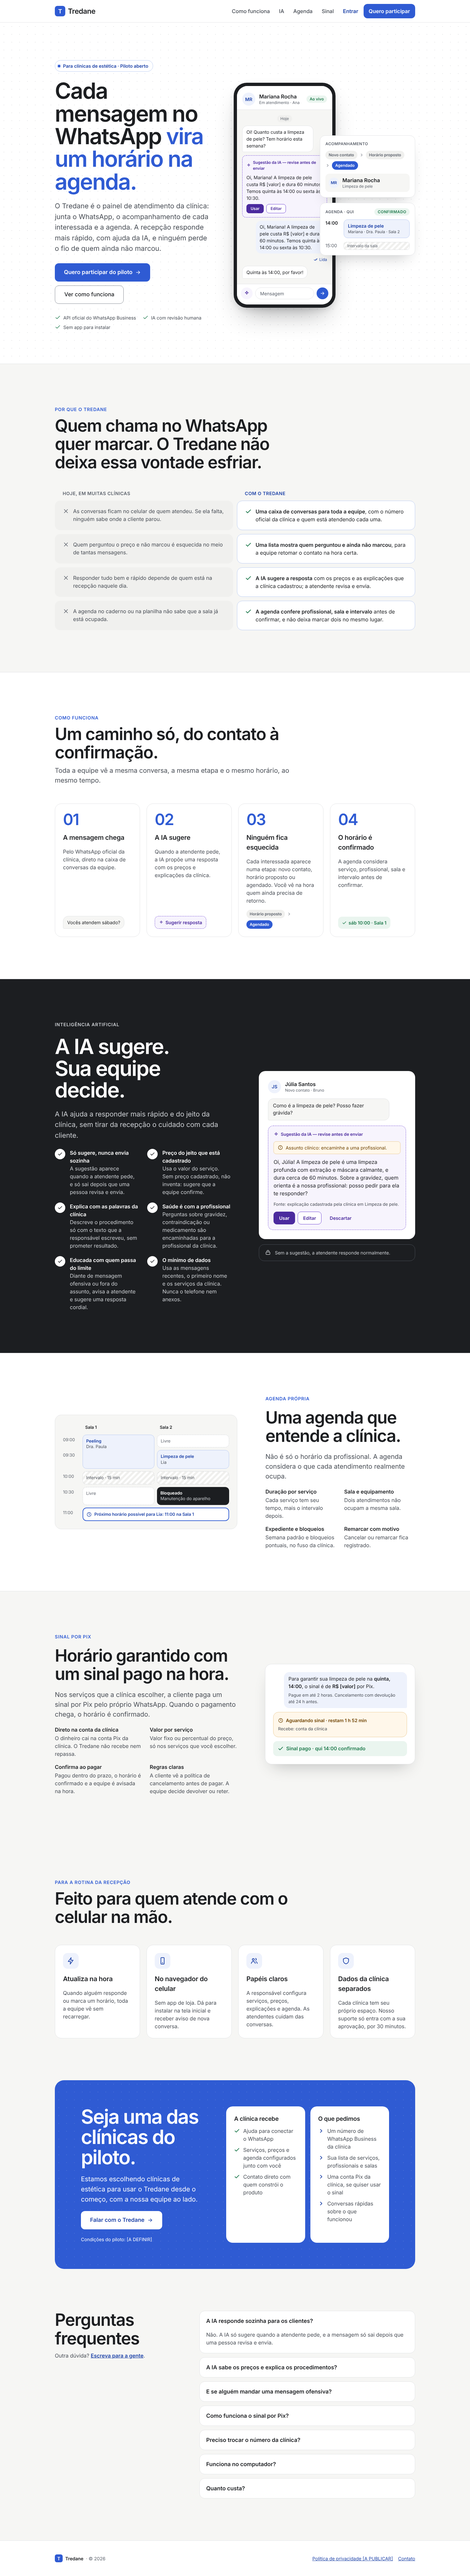
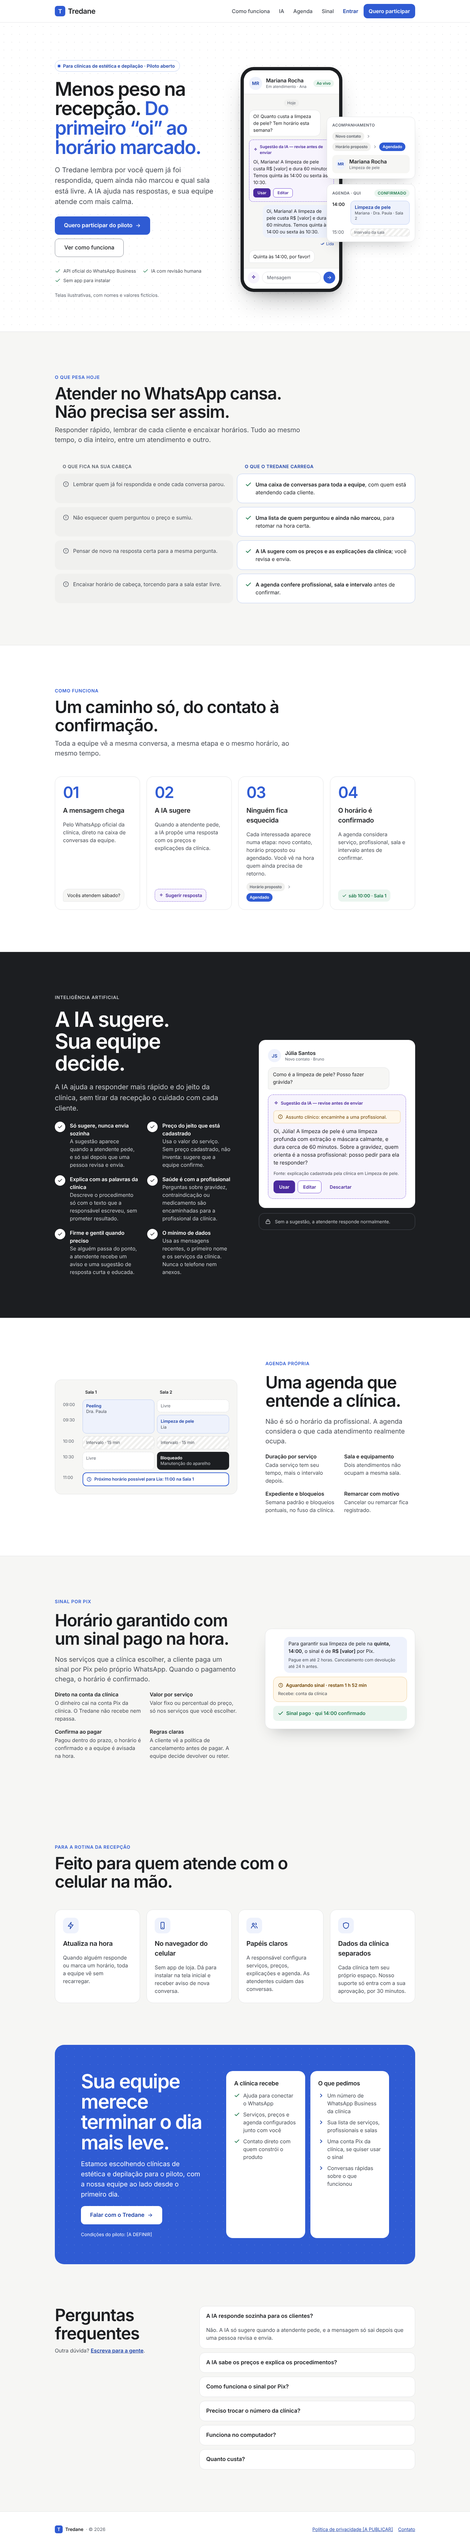
Landing v7: recepção mais leve, sem estágio de desenvolvimento
- Abertura: Menos peso na recepção. Do primeiro oi ao horário marcado.
- Seção O que pesa hoje com quatro pares; público com depilação
- Mensagens ofensivas só como garantia leve da IA; nota de telas
  ilustrativas com dados fictícios
- axe 0 violações; Lighthouse 100/100/100 e 99 em desempenho

Claude-Session: https://claude.ai/code/session_018LoKpmkZfcb6hBei4QRSz9

diff --git a/docs/design/landing/Main.dc.html b/docs/design/landing/Main.dc.html
@@ -2,7 +2,7 @@
 <html lang="pt-BR">
 <head>
 <meta charset="utf-8">
-<title>Tredane — atendimento para clínicas de estética (v4)</title>
+<title>Tredane — atendimento para clínicas de estética (v7)</title>
 <script src="./support.js"></script>
 </head>
 <body>
@@ -35,9 +35,9 @@ body{margin:0}
 <div style="max-width: 1200px; margin: 0 auto; padding: clamp(48px, 8cqi, 120px) clamp(16px, 4cqi, 48px) clamp(48px, 7cqi, 104px); display: flex; flex-wrap: wrap; align-items: center; gap: clamp(40px, 5cqi, 72px)">
 
 <div style="flex: 1 1 440px; min-width: 0; display: flex; flex-direction: column; gap: 24px">
-<span style="align-self: flex-start; display: flex; align-items: center; gap: 8px; padding: 6px 14px 6px 8px; border-radius: 999px; background: #FFFFFF; border: 1px solid #B9CBF2; color: #1E43A8; font-size: 14px; font-weight: 600"><span aria-hidden="true" style="width: 8px; height: 8px; border-radius: 999px; background: #2F5BD3; box-shadow: 0 0 0 4px #EEF2FC"></span>Para clínicas de estética · Piloto aberto</span>
-<h1 id="hero-t" style="margin: 0; font-size: clamp(40px, 6.2cqi, 80px); line-height: 1.02; letter-spacing: -0.035em; font-weight: 600">Cada mensagem no WhatsApp <span style="color: #2F5BD3">vira um horário na agenda.</span></h1>
-<p style="margin: 0; font-size: clamp(17px, 1.6cqi, 21px); line-height: 1.55; color: #474C54; max-width: 560px">O Tredane é o painel de atendimento da clínica: junta o WhatsApp, o acompanhamento de cada interessada e a agenda. A recepção responde mais rápido, com ajuda da IA, e ninguém perde o fio de quem ainda não marcou.</p>
+<span style="align-self: flex-start; display: flex; align-items: center; gap: 8px; padding: 6px 14px 6px 8px; border-radius: 999px; background: #FFFFFF; border: 1px solid #B9CBF2; color: #1E43A8; font-size: 14px; font-weight: 600"><span aria-hidden="true" style="width: 8px; height: 8px; border-radius: 999px; background: #2F5BD3; box-shadow: 0 0 0 4px #EEF2FC"></span>Para clínicas de estética e depilação · Piloto aberto</span>
+<h1 id="hero-t" style="margin: 0; font-size: clamp(40px, 6.2cqi, 80px); line-height: 1.02; letter-spacing: -0.035em; font-weight: 600">Menos peso na recepção. <span style="color: #2F5BD3">Do primeiro “oi” ao horário marcado.</span></h1>
+<p style="margin: 0; font-size: clamp(17px, 1.6cqi, 21px); line-height: 1.55; color: #474C54; max-width: 560px">O Tredane lembra por você quem já foi respondida, quem ainda não marcou e qual sala está livre. A IA ajuda nas respostas, e sua equipe atende com mais calma.</p>
 <div style="display: flex; flex-wrap: wrap; gap: 12px; padding-top: 4px">
 <a href="#piloto" style="display: flex; align-items: center; justify-content: center; gap: 8px; min-height: 56px; padding: 0 28px; border-radius: 12px; background: #2F5BD3; color: #FFFFFF; font-size: 17px; font-weight: 600; text-decoration: none">Quero participar do piloto<svg aria-hidden="true" width="18" height="18" viewBox="0 0 24 24" fill="none" stroke="currentColor" stroke-width="2" stroke-linecap="round" stroke-linejoin="round"><path d="M5 12h14"></path><path d="M13 6l6 6-6 6"></path></svg></a>
 <a href="#como-funciona" style="display: flex; align-items: center; justify-content: center; min-height: 56px; padding: 0 24px; border-radius: 12px; border: 1px solid #80868F; background: #FFFFFF; color: #1C1E21; font-size: 17px; font-weight: 500; text-decoration: none">Ver como funciona</a>
@@ -47,9 +47,10 @@ body{margin:0}
 <li style="display: flex; align-items: center; gap: 8px"><svg aria-hidden="true" width="18" height="18" viewBox="0 0 24 24" fill="none" stroke="#1F7A4D" stroke-width="2" stroke-linecap="round" stroke-linejoin="round"><path d="M20 6L9 17l-5-5"></path></svg>IA com revisão humana</li>
 <li style="display: flex; align-items: center; gap: 8px"><svg aria-hidden="true" width="18" height="18" viewBox="0 0 24 24" fill="none" stroke="#1F7A4D" stroke-width="2" stroke-linecap="round" stroke-linejoin="round"><path d="M20 6L9 17l-5-5"></path></svg>Sem app para instalar</li>
 </ul>
+<p style="margin: 0; font-size: 14px; color: #5B616B">Telas ilustrativas, com nomes e valores fictícios.</p>
 </div>
 
-<figure role="img" aria-label="Exemplo do produto: uma conversa no celular com sugestão da IA, a cliente passando de interessada a agendada e o horário confirmado na agenda." style="flex: 1 1 520px; min-width: 0; margin: 0; display: flex; flex-wrap: wrap; align-items: center; justify-content: center; gap: 16px">
+<figure role="img" aria-label="Ilustração do produto, com dados fictícios: uma conversa no celular com sugestão da IA, a cliente passando de interessada a agendada e o horário confirmado na agenda." style="flex: 1 1 520px; min-width: 0; margin: 0; display: flex; flex-wrap: wrap; align-items: center; justify-content: center; gap: 16px">
 
 <div aria-hidden="true" style="flex: 0 1 312px; min-width: 0; border-radius: 40px; background: #1C1E21; padding: 10px; box-shadow: 0 40px 80px -32px rgba(28, 30, 33, 0.45), 0 8px 24px -8px rgba(28, 30, 33, 0.2)">
 <div style="background: #F6F6F4; border-radius: 32px; overflow: hidden; display: flex; flex-direction: column">
@@ -96,31 +97,32 @@ body{margin:0}
 
 <section id="valor" aria-labelledby="vl-t">
 <div style="max-width: 1200px; margin: 0 auto; padding: clamp(64px, 9cqi, 128px) clamp(16px, 4cqi, 48px) 0; display: flex; flex-direction: column; gap: clamp(32px, 4cqi, 56px)">
-<div style="display: flex; flex-direction: column; gap: 12px; max-width: 760px">
-<span style="font-size: 14px; font-weight: 600; letter-spacing: .06em; text-transform: uppercase; color: #2F5BD3">Por que o Tredane</span>
-<h2 id="vl-t" style="margin: 0; font-size: clamp(30px, 4cqi, 52px); line-height: 1.08; letter-spacing: -0.03em; font-weight: 600">Quem chama no WhatsApp quer marcar. O Tredane não deixa essa vontade esfriar.</h2>
+<div style="display: flex; flex-direction: column; gap: 12px; max-width: 780px">
+<span style="font-size: 14px; font-weight: 600; letter-spacing: .06em; text-transform: uppercase; color: #2F5BD3">O que pesa hoje</span>
+<h2 id="vl-t" style="margin: 0; font-size: clamp(30px, 4cqi, 52px); line-height: 1.08; letter-spacing: -0.03em; font-weight: 600">Atender no WhatsApp cansa. Não precisa ser assim.</h2>
+<p style="margin: 0; color: #474C54; font-size: clamp(17px, 1.5cqi, 20px)">Responder rápido, lembrar de cada cliente e encaixar horários. Tudo ao mesmo tempo, o dia inteiro, entre um atendimento e outro.</p>
 </div>
 <div style="display: flex; flex-direction: column; gap: 12px">
 <div aria-hidden="true" style="display: grid; grid-template-columns: repeat(auto-fit, minmax(min(100%, 320px), 1fr)); gap: 12px; font-size: 14px; font-weight: 600; letter-spacing: .04em; text-transform: uppercase">
-<span style="color: #5B616B; padding: 0 24px">Hoje, em muitas clínicas</span>
-<span style="color: #1E43A8; padding: 0 24px">Com o Tredane</span>
+<span style="color: #5B616B; padding: 0 24px">O que fica na sua cabeça</span>
+<span style="color: #1E43A8; padding: 0 24px">O que o Tredane carrega</span>
 </div>
 <ul style="list-style: none; margin: 0; padding: 0; display: flex; flex-direction: column; gap: 12px">
 <li style="display: grid; grid-template-columns: repeat(auto-fit, minmax(min(100%, 320px), 1fr)); gap: 12px">
-<span style="display: flex; gap: 12px; align-items: flex-start; padding: 20px 24px; border-radius: 16px; background: #F0F0EE; color: #474C54"><svg aria-hidden="true" style="flex: none; margin-top: 2px" width="20" height="20" viewBox="0 0 24 24" fill="none" stroke="#5B616B" stroke-width="2" stroke-linecap="round" stroke-linejoin="round"><path d="M18 6L6 18"></path><path d="M6 6l12 12"></path></svg><span><span style="position: absolute; left: -9999px">Hoje: </span>As conversas ficam no celular de quem atendeu. Se ela falta, ninguém sabe onde a cliente parou.</span></span>
-<span style="display: flex; gap: 12px; align-items: flex-start; padding: 20px 24px; border-radius: 16px; background: #FFFFFF; border: 1px solid #B9CBF2"><svg aria-hidden="true" style="flex: none; margin-top: 2px" width="20" height="20" viewBox="0 0 24 24" fill="none" stroke="#1F7A4D" stroke-width="2.5" stroke-linecap="round" stroke-linejoin="round"><path d="M20 6L9 17l-5-5"></path></svg><span><span style="position: absolute; left: -9999px">Com o Tredane: </span><strong style="font-weight: 600">Uma caixa de conversas para toda a equipe</strong>, com o número oficial da clínica e quem está atendendo cada uma.</span></span>
+<span style="display: flex; gap: 12px; align-items: flex-start; padding: 20px 24px; border-radius: 16px; background: #F0F0EE; color: #474C54"><svg aria-hidden="true" style="flex: none; margin-top: 2px" width="20" height="20" viewBox="0 0 24 24" fill="none" stroke="#5B616B" stroke-width="2" stroke-linecap="round" stroke-linejoin="round"><circle cx="12" cy="12" r="9"></circle><path d="M12 8v4"></path><path d="M12 16h.01"></path></svg><span><span style="position: absolute; left: -9999px">Na sua cabeça: </span>Lembrar quem já foi respondida e onde cada conversa parou.</span></span>
+<span style="display: flex; gap: 12px; align-items: flex-start; padding: 20px 24px; border-radius: 16px; background: #FFFFFF; border: 1px solid #B9CBF2"><svg aria-hidden="true" style="flex: none; margin-top: 2px" width="20" height="20" viewBox="0 0 24 24" fill="none" stroke="#1F7A4D" stroke-width="2.5" stroke-linecap="round" stroke-linejoin="round"><path d="M20 6L9 17l-5-5"></path></svg><span><span style="position: absolute; left: -9999px">O Tredane carrega: </span><strong style="font-weight: 600">Uma caixa de conversas para toda a equipe</strong>, com quem está atendendo cada cliente.</span></span>
 </li>
 <li style="display: grid; grid-template-columns: repeat(auto-fit, minmax(min(100%, 320px), 1fr)); gap: 12px">
-<span style="display: flex; gap: 12px; align-items: flex-start; padding: 20px 24px; border-radius: 16px; background: #F0F0EE; color: #474C54"><svg aria-hidden="true" style="flex: none; margin-top: 2px" width="20" height="20" viewBox="0 0 24 24" fill="none" stroke="#5B616B" stroke-width="2" stroke-linecap="round" stroke-linejoin="round"><path d="M18 6L6 18"></path><path d="M6 6l12 12"></path></svg><span><span style="position: absolute; left: -9999px">Hoje: </span>Quem perguntou o preço e não marcou é esquecida no meio de tantas mensagens.</span></span>
-<span style="display: flex; gap: 12px; align-items: flex-start; padding: 20px 24px; border-radius: 16px; background: #FFFFFF; border: 1px solid #B9CBF2"><svg aria-hidden="true" style="flex: none; margin-top: 2px" width="20" height="20" viewBox="0 0 24 24" fill="none" stroke="#1F7A4D" stroke-width="2.5" stroke-linecap="round" stroke-linejoin="round"><path d="M20 6L9 17l-5-5"></path></svg><span><span style="position: absolute; left: -9999px">Com o Tredane: </span><strong style="font-weight: 600">Uma lista mostra quem perguntou e ainda não marcou</strong>, para a equipe retomar o contato na hora certa.</span></span>
+<span style="display: flex; gap: 12px; align-items: flex-start; padding: 20px 24px; border-radius: 16px; background: #F0F0EE; color: #474C54"><svg aria-hidden="true" style="flex: none; margin-top: 2px" width="20" height="20" viewBox="0 0 24 24" fill="none" stroke="#5B616B" stroke-width="2" stroke-linecap="round" stroke-linejoin="round"><circle cx="12" cy="12" r="9"></circle><path d="M12 8v4"></path><path d="M12 16h.01"></path></svg><span><span style="position: absolute; left: -9999px">Na sua cabeça: </span>Não esquecer quem perguntou o preço e sumiu.</span></span>
+<span style="display: flex; gap: 12px; align-items: flex-start; padding: 20px 24px; border-radius: 16px; background: #FFFFFF; border: 1px solid #B9CBF2"><svg aria-hidden="true" style="flex: none; margin-top: 2px" width="20" height="20" viewBox="0 0 24 24" fill="none" stroke="#1F7A4D" stroke-width="2.5" stroke-linecap="round" stroke-linejoin="round"><path d="M20 6L9 17l-5-5"></path></svg><span><span style="position: absolute; left: -9999px">O Tredane carrega: </span><strong style="font-weight: 600">Uma lista de quem perguntou e ainda não marcou</strong>, para retomar na hora certa.</span></span>
 </li>
 <li style="display: grid; grid-template-columns: repeat(auto-fit, minmax(min(100%, 320px), 1fr)); gap: 12px">
-<span style="display: flex; gap: 12px; align-items: flex-start; padding: 20px 24px; border-radius: 16px; background: #F0F0EE; color: #474C54"><svg aria-hidden="true" style="flex: none; margin-top: 2px" width="20" height="20" viewBox="0 0 24 24" fill="none" stroke="#5B616B" stroke-width="2" stroke-linecap="round" stroke-linejoin="round"><path d="M18 6L6 18"></path><path d="M6 6l12 12"></path></svg><span><span style="position: absolute; left: -9999px">Hoje: </span>Responder tudo bem e rápido depende de quem está na recepção naquele dia.</span></span>
-<span style="display: flex; gap: 12px; align-items: flex-start; padding: 20px 24px; border-radius: 16px; background: #FFFFFF; border: 1px solid #B9CBF2"><svg aria-hidden="true" style="flex: none; margin-top: 2px" width="20" height="20" viewBox="0 0 24 24" fill="none" stroke="#1F7A4D" stroke-width="2.5" stroke-linecap="round" stroke-linejoin="round"><path d="M20 6L9 17l-5-5"></path></svg><span><span style="position: absolute; left: -9999px">Com o Tredane: </span><strong style="font-weight: 600">A IA sugere a resposta</strong> com os serviços e preços da clínica; a atendente revisa e envia.</span></span>
+<span style="display: flex; gap: 12px; align-items: flex-start; padding: 20px 24px; border-radius: 16px; background: #F0F0EE; color: #474C54"><svg aria-hidden="true" style="flex: none; margin-top: 2px" width="20" height="20" viewBox="0 0 24 24" fill="none" stroke="#5B616B" stroke-width="2" stroke-linecap="round" stroke-linejoin="round"><circle cx="12" cy="12" r="9"></circle><path d="M12 8v4"></path><path d="M12 16h.01"></path></svg><span><span style="position: absolute; left: -9999px">Na sua cabeça: </span>Pensar de novo na resposta certa para a mesma pergunta.</span></span>
+<span style="display: flex; gap: 12px; align-items: flex-start; padding: 20px 24px; border-radius: 16px; background: #FFFFFF; border: 1px solid #B9CBF2"><svg aria-hidden="true" style="flex: none; margin-top: 2px" width="20" height="20" viewBox="0 0 24 24" fill="none" stroke="#1F7A4D" stroke-width="2.5" stroke-linecap="round" stroke-linejoin="round"><path d="M20 6L9 17l-5-5"></path></svg><span><span style="position: absolute; left: -9999px">O Tredane carrega: </span><strong style="font-weight: 600">A IA sugere com os preços e as explicações da clínica</strong>; você revisa e envia.</span></span>
 </li>
 <li style="display: grid; grid-template-columns: repeat(auto-fit, minmax(min(100%, 320px), 1fr)); gap: 12px">
-<span style="display: flex; gap: 12px; align-items: flex-start; padding: 20px 24px; border-radius: 16px; background: #F0F0EE; color: #474C54"><svg aria-hidden="true" style="flex: none; margin-top: 2px" width="20" height="20" viewBox="0 0 24 24" fill="none" stroke="#5B616B" stroke-width="2" stroke-linecap="round" stroke-linejoin="round"><path d="M18 6L6 18"></path><path d="M6 6l12 12"></path></svg><span><span style="position: absolute; left: -9999px">Hoje: </span>A agenda no caderno ou na planilha não sabe que a sala já está ocupada.</span></span>
-<span style="display: flex; gap: 12px; align-items: flex-start; padding: 20px 24px; border-radius: 16px; background: #FFFFFF; border: 1px solid #B9CBF2"><svg aria-hidden="true" style="flex: none; margin-top: 2px" width="20" height="20" viewBox="0 0 24 24" fill="none" stroke="#1F7A4D" stroke-width="2.5" stroke-linecap="round" stroke-linejoin="round"><path d="M20 6L9 17l-5-5"></path></svg><span><span style="position: absolute; left: -9999px">Com o Tredane: </span><strong style="font-weight: 600">A agenda confere profissional, sala e intervalo</strong> antes de confirmar, e não deixa marcar dois no mesmo lugar.</span></span>
+<span style="display: flex; gap: 12px; align-items: flex-start; padding: 20px 24px; border-radius: 16px; background: #F0F0EE; color: #474C54"><svg aria-hidden="true" style="flex: none; margin-top: 2px" width="20" height="20" viewBox="0 0 24 24" fill="none" stroke="#5B616B" stroke-width="2" stroke-linecap="round" stroke-linejoin="round"><circle cx="12" cy="12" r="9"></circle><path d="M12 8v4"></path><path d="M12 16h.01"></path></svg><span><span style="position: absolute; left: -9999px">Na sua cabeça: </span>Encaixar horário de cabeça, torcendo para a sala estar livre.</span></span>
+<span style="display: flex; gap: 12px; align-items: flex-start; padding: 20px 24px; border-radius: 16px; background: #FFFFFF; border: 1px solid #B9CBF2"><svg aria-hidden="true" style="flex: none; margin-top: 2px" width="20" height="20" viewBox="0 0 24 24" fill="none" stroke="#1F7A4D" stroke-width="2.5" stroke-linecap="round" stroke-linejoin="round"><path d="M20 6L9 17l-5-5"></path></svg><span><span style="position: absolute; left: -9999px">O Tredane carrega: </span><strong style="font-weight: 600">A agenda confere profissional, sala e intervalo</strong> antes de confirmar.</span></span>
 </li>
 </ul>
 </div>
@@ -173,6 +175,7 @@ body{margin:0}
 <li style="display: flex; gap: 14px; align-items: flex-start"><span aria-hidden="true" style="flex: none; width: 32px; height: 32px; border-radius: 999px; background: #FFFFFF; color: #1C1E21; display: flex; align-items: center; justify-content: center"><svg width="16" height="16" viewBox="0 0 24 24" fill="none" stroke="currentColor" stroke-width="2.5" stroke-linecap="round" stroke-linejoin="round"><path d="M20 6L9 17l-5-5"></path></svg></span><span style="display: flex; flex-direction: column"><strong style="font-weight: 600">Só quando alguém pede</strong><span style="color: #CDD0D4">A sugestão aparece ao toque da atendente, nunca sozinha.</span></span></li>
 <li style="display: flex; gap: 14px; align-items: flex-start"><span aria-hidden="true" style="flex: none; width: 32px; height: 32px; border-radius: 999px; background: #FFFFFF; color: #1C1E21; display: flex; align-items: center; justify-content: center"><svg width="16" height="16" viewBox="0 0 24 24" fill="none" stroke="currentColor" stroke-width="2.5" stroke-linecap="round" stroke-linejoin="round"><path d="M20 6L9 17l-5-5"></path></svg></span><span style="display: flex; flex-direction: column"><strong style="font-weight: 600">Nada sai sem revisão</strong><span style="color: #CDD0D4">A mensagem só é enviada depois que uma pessoa revisa, edita se quiser e envia.</span></span></li>
 <li style="display: flex; gap: 14px; align-items: flex-start"><span aria-hidden="true" style="flex: none; width: 32px; height: 32px; border-radius: 999px; background: #FFFFFF; color: #1C1E21; display: flex; align-items: center; justify-content: center"><svg width="16" height="16" viewBox="0 0 24 24" fill="none" stroke="currentColor" stroke-width="2.5" stroke-linecap="round" stroke-linejoin="round"><path d="M20 6L9 17l-5-5"></path></svg></span><span style="display: flex; flex-direction: column"><strong style="font-weight: 600">O mínimo de dados</strong><span style="color: #CDD0D4">Usa só as mensagens recentes da conversa, o primeiro nome e os serviços da clínica. Nunca o telefone nem anexos.</span></span></li>
+<li style="display: flex; gap: 14px; align-items: flex-start"><span aria-hidden="true" style="flex: none; width: 32px; height: 32px; border-radius: 999px; background: #FFFFFF; color: #1C1E21; display: flex; align-items: center; justify-content: center"><svg width="16" height="16" viewBox="0 0 24 24" fill="none" stroke="currentColor" stroke-width="2.5" stroke-linecap="round" stroke-linejoin="round"><path d="M20 6L9 17l-5-5"></path></svg></span><span style="display: flex; flex-direction: column"><strong style="font-weight: 600">Firme e gentil quando preciso</strong><span style="color: #CDD0D4">Se alguém passa do ponto, a atendente recebe um aviso e uma sugestão de resposta curta e educada.</span></span></li>
 </ul>
 </div>
 <div aria-hidden="true" style="flex: 1 1 420px; min-width: 0; display: flex; flex-direction: column; gap: 16px">
@@ -268,8 +271,8 @@ body{margin:0}
 <section id="piloto" aria-labelledby="pl-t" style="padding: 0 clamp(16px, 4cqi, 48px) clamp(64px, 9cqi, 128px)">
 <div style="max-width: 1200px; margin: 0 auto; background: #2F5BD3; color: #FFFFFF; border-radius: 28px; padding: clamp(32px, 6cqi, 80px); display: flex; flex-wrap: wrap; gap: clamp(32px, 5cqi, 72px); overflow: hidden; background-image: radial-gradient(rgba(255, 255, 255, 0.14) 1px, transparent 1.5px); background-size: 24px 24px">
 <div style="flex: 1 1 420px; min-width: 0; display: flex; flex-direction: column; gap: 20px; align-items: flex-start">
-<h2 id="pl-t" style="margin: 0; font-size: clamp(32px, 4.6cqi, 60px); line-height: 1.04; letter-spacing: -0.035em; font-weight: 600">Seja uma das clínicas do piloto.</h2>
-<p style="margin: 0; font-size: clamp(17px, 1.5cqi, 20px); line-height: 1.55; max-width: 520px">Estamos escolhendo clínicas de estética para usar o Tredane desde o começo, com a nossa equipe ao lado.</p>
+<h2 id="pl-t" style="margin: 0; font-size: clamp(32px, 4.6cqi, 60px); line-height: 1.04; letter-spacing: -0.035em; font-weight: 600">Sua equipe merece terminar o dia mais leve.</h2>
+<p style="margin: 0; font-size: clamp(17px, 1.5cqi, 20px); line-height: 1.55; max-width: 520px">Estamos escolhendo clínicas de estética e depilação para o piloto, com a nossa equipe ao lado desde o primeiro dia.</p>
 <a href="mailto:contato@tredane.example?subject=Piloto%20Tredane" style="display: flex; align-items: center; gap: 8px; min-height: 56px; padding: 0 28px; border-radius: 12px; background: #FFFFFF; color: #1E43A8; font-size: 17px; font-weight: 600; text-decoration: none">Falar com o Tredane<svg aria-hidden="true" width="18" height="18" viewBox="0 0 24 24" fill="none" stroke="currentColor" stroke-width="2" stroke-linecap="round" stroke-linejoin="round"><path d="M5 12h14"></path><path d="M13 6l6 6-6 6"></path></svg></a>
 <span style="font-size: 14px">Condições do piloto: [A DEFINIR]</span>
 </div>
@@ -338,7 +341,7 @@ body{margin:0}
 </footer>
 </div>
 </x-dc>
-<script type="text/x-dc" data-dc-script data-props='{"$preview":{"width":1440,"height":7700}}'>
+<script type="text/x-dc" data-dc-script data-props='{"$preview":{"width":1440,"height":8200}}'>
 class Component extends DCLogic {
 renderVals() {
 return {};

diff --git a/site/src/styles/global.css b/site/src/styles/global.css
@@ -78,7 +78,7 @@ svg { flex: none; }
 /* Títulos */
 .eyebrow { font-size: 14px; font-weight: 600; letter-spacing: .06em; text-transform: uppercase; color: var(--primary-base); }
 .eyebrow-muted { color: var(--line-disabled); }
-h1 { font-size: clamp(40px, 5vw, 68px); line-height: 1.02; letter-spacing: -0.035em; font-weight: 600; }
+h1 { font-size: clamp(38px, 4.2vw, 58px); line-height: 1.02; letter-spacing: -0.035em; font-weight: 600; }
 h1 .accent { color: var(--primary-base); }
 h2 { font-size: clamp(30px, 4vw, 52px); line-height: 1.08; letter-spacing: -0.03em; font-weight: 600; }
 h2.big { font-size: clamp(34px, 5vw, 64px); line-height: 1.04; letter-spacing: -0.035em; }
@@ -91,12 +91,13 @@ h3 { font-size: 20px; font-weight: 600; letter-spacing: -0.01em; }
 /* Abertura */
 .hero-band { background-color: var(--surface-card); background-image: radial-gradient(var(--line-border) 1px, transparent 1.5px); background-size: 24px 24px; border-bottom: 1px solid var(--line-border); overflow: hidden; }
 .hero { display: flex; flex-wrap: wrap; align-items: center; gap: clamp(40px, 5vw, 72px); padding-block: clamp(48px, 8vw, 120px) clamp(48px, 7vw, 104px); }
-.hero-text { flex: 1 1 440px; min-width: 0; display: flex; flex-direction: column; gap: 24px; }
+.hero-text { flex: 1.15 1 480px; min-width: 0; display: flex; flex-direction: column; gap: 24px; }
 .pill { align-self: flex-start; display: flex; align-items: center; gap: 8px; padding: 6px 14px 6px 8px; border-radius: 999px; background: var(--surface-card); border: 1px solid var(--primary-border); color: var(--primary-ink); font-size: 14px; font-weight: 600; }
 .pill-dot { width: 8px; height: 8px; border-radius: 999px; background: var(--primary-base); box-shadow: 0 0 0 4px var(--primary-tint); }
 .actions { display: flex; flex-wrap: wrap; gap: 12px; padding-top: 4px; }
 .checks { display: flex; flex-wrap: wrap; gap: 8px 20px; font-size: 14px; color: var(--text-secondary); margin-top: 8px; }
 .checks li { display: flex; align-items: center; gap: 8px; }
+.note-small { font-size: 14px; color: var(--text-muted); }
 
 /* Composição do produto */
 .showcase { flex: 1 1 520px; min-width: 0; display: flex; flex-wrap: wrap; align-items: center; justify-content: center; gap: 16px; }

diff --git a/docs/design/landing/Celular.dc.html b/docs/design/landing/Celular.dc.html
@@ -2,7 +2,7 @@
 <html lang="pt-BR">
 <head>
 <meta charset="utf-8">
-<title>Tredane — landing v4 no celular</title>
+<title>Tredane — landing v7 no celular</title>
 <script src="./support.js"></script>
 </head>
 <body>
@@ -15,10 +15,10 @@ body{margin:0}
 </style>
 </helmet>
 <div style="width: 390px; background: #F6F6F4; font-family: Inter, system-ui, sans-serif; color: #1C1E21">
-<dc-import name="Main" hint-size="390px,13200px"></dc-import>
+<dc-import name="Main" hint-size="390px,13400px"></dc-import>
 </div>
 </x-dc>
-<script type="text/x-dc" data-dc-script data-props='{"$preview":{"width":390,"height":13200}}'>
+<script type="text/x-dc" data-dc-script data-props='{"$preview":{"width":390,"height":13400}}'>
 class Component extends DCLogic {
 renderVals() {
 return {};

diff --git a/docs/product/decisions.md b/docs/product/decisions.md
@@ -39,7 +39,7 @@
 | DEC-041 | Confirmado parcialmente | Design system do painel | **Confirmado:** o design system v0.2 de [docs/design](../design/README.md): paleta (azul de ação #2F5BD3, roxo para conteúdo de IA, verde/âmbar/vermelho para estados, neutros quentes), tipografia (Inter em 400/500/600 e seis tamanhos: 12, 14, 16, 18, 22 e 26 px; Inter hospedada pelo próprio Tredane), formas e espaçamento (cinco raios, múltiplos de 4 px, borda de controle com 3:1, área clicável mínima de 44 px), componentes e estados do [catálogo](../design/catalog/index.html) e ícones Lucide. Modo escuro **Fora do MVP**. **Proposto:** a biblioteca-base de componentes, que será escolhida por prova de conceito na F0 (React Aria Components ou primitivos Radix), conforme o [ADR-0013](../adr/0013-design-system-components.md). | 24/10/2026 (numerada DEC-041 ao reconciliar com a `main`), aprovação expressa do responsável pelo produto, item a item, após revisar o catálogo e cinco telas. Opções descartadas: trocar a cor de ação ou esperar a identidade de marca; fonte do sistema; borda de controle clara; aprovar a biblioteca sem prova de conceito. **Em aberto:** identidade visual (logotipo, ícone do PWA, cor de marca) — pode substituir valores de tokens depois, sem mudar a estrutura. **A conferir:** licença do arquivo da fonte Inter, quebras de linha com Inter real, nomes dos ícones Lucide na instalação. **Bloqueia:** o início das telas de produção só depende agora da prova de conceito da biblioteca. |
 | DEC-042 | Confirmado | Configuração da clínica só pelo responsável | Só o responsável (owner) altera serviços, profissionais, salas/equipamentos, disponibilidade e bloqueios e conecta o número de WhatsApp; o atendente opera atendimento e agenda, mas não altera essas configurações. Resolve o “?” da matriz de [atores](actors-permissions.md) para o atendente. Convite e remoção de attendants seguem DEC-020. | 23/10/2026 (resposta do responsável pelo produto nesta sessão de design, item “Administração”). Opções descartadas: atendente ajustando disponibilidade do dia; ambos administrando tudo. |
 | DEC-043 | Confirmado (24/10/2026, responsável pelo produto) | Clerk no piloto: plano, custo e residência | O piloto usa o plano de menor custo do Clerk e guarda lá só identidade mínima (nome, e-mail, sessão); dados de atendimento ficam no SQLite do DO e no D1 (DEC-038). **Pré-condição de go-live, não da F0:** antes de qualquer clínica real, conferir na documentação da Clerk plano e limites, custo por usuário ativo, DPA e região de hospedagem, e levar à revisão jurídica (LGPD). Valores não foram verificados; não registrar números nesta spec até a conferência. **Em aberto:** responsável pela conferência e custo aceitável por clínica. |
-| DEC-044 | Confirmado (24/10/2026, responsável pelo produto) | Landing page do piloto | Página pública para atrair clínicas ao piloto, com contato por e-mail e sem formulário; visual do design system do painel (substitui, para o site, a tela escura da F0); site separado do painel; desenho aprovado. Tecnologia **Astro** (HTML estático) em `site/`, escolhida pelo responsável em 24/10/2026; opção descartada: HTML e CSS puros. Os itens de publicação (domínio, e-mail, política de privacidade, condições do piloto) seguem **Proposto** ou **Em aberto** em [landing.md](landing.md). Opções descartadas: lista de espera com formulário, página só de entrada no app, rota pública no mesmo app. **Confirmados depois, na mesma data:** extensões visuais só do site (sombras, fundo de pontos, faixa escura) e desempenho Lighthouse de pelo menos 95. |
+| DEC-044 | Confirmado (24/10/2026, responsável pelo produto) | Landing page do piloto | Página pública para atrair clínicas ao piloto, com contato por e-mail e sem formulário; visual do design system do painel (substitui, para o site, a tela escura da F0); site separado do painel; desenho aprovado. Tecnologia **Astro** (HTML estático) em `site/`, escolhida pelo responsável em 24/10/2026; opção descartada: HTML e CSS puros. Os itens de publicação (domínio, e-mail, política de privacidade, condições do piloto) seguem **Proposto** ou **Em aberto** em [landing.md](landing.md). Opções descartadas: lista de espera com formulário, página só de entrada no app, rota pública no mesmo app. **Confirmados depois, na mesma data:** extensões visuais só do site (sombras, fundo de pontos, faixa escura) e desempenho Lighthouse de pelo menos 95. Versão v7 aprovada: sem indicar “em desenvolvimento”, público com clínicas de depilação, nota de telas ilustrativas e mensagens ofensivas só como menção leve. |
 | DEC-045 | Confirmado (24/10/2026, responsável pelo produto) | Nome do pipeline na interface | Na interface do painel e no site, “Pipeline” passa a **Acompanhamento** e “oportunidade” a **contato em andamento** (ou equivalente em linguagem da recepção). Motivo: muitas leitoras não sabem o que é pipeline. Documentos, requisitos e código mantêm “pipeline” e “oportunidade” como termos de domínio; arquivos e IDs (TEL-03, M-05, `Pipeline.dc.html`) não mudam. **Confirmado depois, na mesma data:** se “Acompanhamento” não couber na barra inferior em 360 px, a barra usa “Acompanhar” e o título da tela continua “Acompanhamento”. **Em aberto:** validar o nome com a clínica piloto e conferir em aparelho real. |
 | DEC-046 | Confirmado (24/10/2026, responsável pelo produto) | Respostas da IA sobre preço, procedimentos e mensagens ofensivas | (a) **Preço:** a sugestão só informa valor cadastrado no serviço; sem preço, não inventa e sugere que a equipe vai confirmar, com aviso à atendente. (b) **Procedimentos:** cada serviço ganha o campo opcional “Explicação para clientes”, escrito pela responsável; a IA explica o serviço **só** com esse texto, sem promessa de resultado, e pergunta de saúde segue para a profissional (§6.3 de ux-ui.md). (c) **Ofensiva ou fora do assunto:** a sugestão traz aviso à atendente e propõe resposta curta e cordial que recoloca o limite ou volta aos serviços. Em todos os casos a IA continua só sugerindo e uma pessoa envia (DEC-040, ADR-0004). Opções descartadas: preço “a partir de” no cadastro, IA nunca falar de preço, explicação pelo conhecimento geral da IA, não explicar no MVP, só avisar sem sugestão, bloquear contato. Amplia o contexto de DEC-011 com a explicação do serviço (texto da clínica, sem dado pessoal). **Em aberto:** critério de detecção de mensagem ofensiva, fora do assunto e assunto clínico (depende de testes com o provedor); o que conta como “fora do assunto” para cada clínica. |
 | DEC-047 | Confirmado (24/10/2026, responsável pelo produto) | Sinal por Pix para confirmar agendamento | **Muda** a decisão “pagamentos fora do MVP”: o sinal por Pix entra no MVP; outros pagamentos seguem fora. Dinheiro vai direto para a conta da clínica no provedor (o Tredane não recebe nem repassa); só Pix; o horário não é reservado até o pagamento; pago sem horário gera alerta, a equipe oferece outro horário e devolve se a cliente recusar; valor por serviço, fixo ou percentual; cancelamento segue a política escrita pela clínica, com a equipe escolhendo devolver ou reter e motivo registrado; provedor escolhido por avaliação na F0 ([ADR-0014](../adr/0014-pix-provider.md)). Detalhes em [sinal.md](sinal.md). Opções descartadas: posterior ou opcional no piloto; Tredane recebe e repassa; cartão; reservar por prazo; estorno automático; crédito; valor único; valor decidido pela atendente; sempre ou nunca devolver. **Confirmados depois, na mesma data:** o compromisso é confirmado automaticamente ao receber o pagamento quando o horário está livre; prazo padrão de 2 horas, ajustável pela responsável; a atendente pode confirmar sem sinal, com motivo registrado. **Em aberto:** modelo de WhatsApp, revisão jurídica e fiscal. |

diff --git a/docs/product/landing-page-concept.md b/docs/product/landing-page-concept.md
@@ -15,7 +15,7 @@
 > - **Pagamentos:** o sinal por Pix passou a fazer parte do MVP (DEC-047); os demais pagamentos continuam fora.
 > - **Vocabulário:** “Acompanhamento” no lugar de pipeline (DEC-045).
 >
-> Continuam válidas e foram levadas para [landing.md](landing.md) como pontos **Em aberto**: indicar o estágio do produto (“em desenvolvimento”), marcar as interfaces como “prévia conceitual” e citar clínicas de depilação no público.
+> Também decididos em 24/10/2026: a página **não** indica “em desenvolvimento”; as ilustrações levam a nota “Telas ilustrativas, com nomes e valores fictícios”; o público inclui clínicas de depilação.
 
 ## 1. Objetivo e público
 
